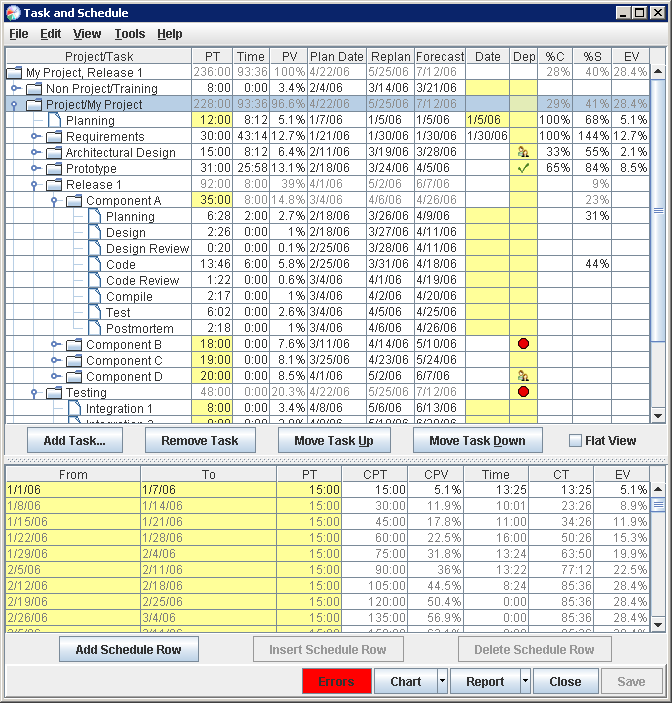
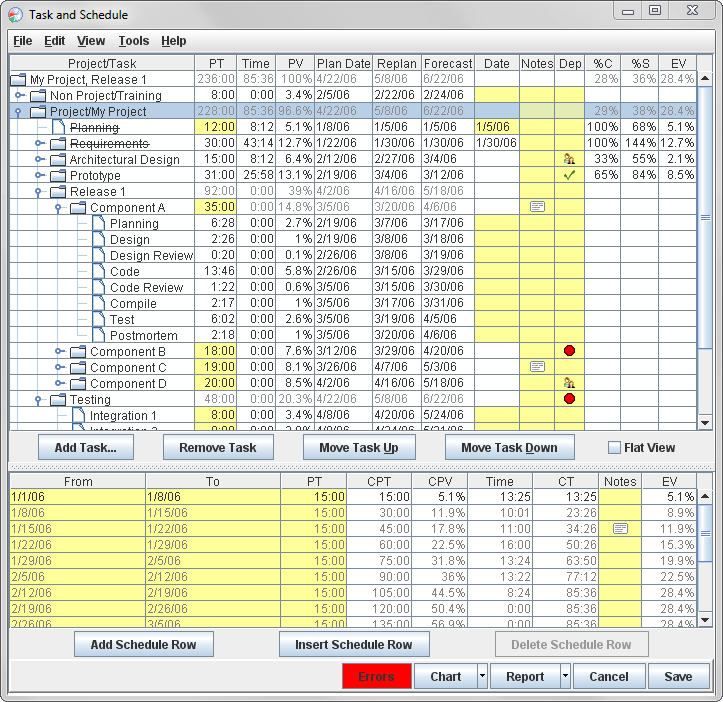
Help updates for Process Dashboard version 1.13
git-svn-id: https://svn.code.sf.net/p/processdash/code/trunk@3912 560cad82-bde2-470f-af40-e4e1f8d6548a

diff --git a/processdash/Templates/help/Topics/Overview/ChangeLog.html b/processdash/Templates/help/Topics/Overview/ChangeLog.html
@@ -7,6 +7,122 @@
 
 <H1>Change History</H1>
 
+<h2>Features new in version 1.13</h2>
+
+<ul>
+
+<li>Several enhancements have been made in the Work Breakdown Structure
+Editor:</li>
+
+    <ul>
+
+    <li>A strikethrough font is now used in the "Assigned To" column to
+    indicate which individuals have completed a multi-person task.</li>
+
+    <li>"Move Up" and "Move Down" buttons have been added to the
+    toolbar.</li>
+
+    <li>The Team Member List will now allow you to reorder individual team
+    members using drag-and-drop.</li>
+
+    <li>If you are starting a new project iteration, you can now use Ctrl-C
+    and Ctrl-V to copy and paste team members from the old team member list
+    to the new team member list.</li>
+
+    <li>In the past, when individual team members open the WBS from their
+    personal dashboard, the WBS Editor would sometimes unexpectedly open in
+    read-only mode.  This problem has been corrected.</li>
+
+    <li>In the past, the Team Dashboard's Team Project Parameters and
+    Settings page displayed a checkbox allowing the team leader to decide
+    whether team members could edit the WBS.  This checkbox has been moved
+    into the Work Breakdown Structure Editor itself, in the "Edit &gt;
+    Preferences" dialog.  As a result, if a team leader has locked down the
+    WBS (forbidding edits by team members), they will need to reaffirm this
+    choice in the "Edit &gt; Preferences" dialog of the WBS Editor after
+    upgrading to version 1.13</li>
+
+    <li>If you insert a workflow underneath a component that has a LOC size
+    estimate, the Code task in that workflow will automatically inherit
+    that size estimate.</li>
+
+    <li>The selection colors have been modified to produce better
+    readability on Mac OS X.</li>
+
+    </ul>
+
+<li>Several enhancements have been made in the WBS Common Team Workflows
+window:</li>
+
+    <ul>
+
+    <li>It is now possible to define a workflow that distributes time
+    across various phases using percentages, even if your team does not use
+    size estimates or historical productivity rates.</li>
+
+    <li>The keyboard accessibility of the Common Team Workflows editor has
+    been improved.  Keystrokes such as Tab, Enter, Delete, Ctrl-C, Ctrl-V,
+    and Ctrl-X will now assume intuitive, spreadsheet-like behaviors when
+    the focus is not in the first column.</li>
+
+    <li>The Task Size Units column now supports autocompletion.</li>
+
+    </ul>
+
+
+<li>Several enhancements have been made in the Task &amp; Schedule
+window:</li>
+
+    <ul>
+
+    <li>When an individual views one of their personal earned value task
+    lists in the Task &amp; Schedule window, they will see a "Notes"
+    column that allows them to view and edit the notes associated with
+    each component or task.</li>
+
+    <li>When an individual views one of their personal earned value task
+    lists in the Task &amp; Schedule window, the schedule pane (in the
+    lower portion of the window) now contains a "Notes" column.  This
+    column can be used to record the reason why a particular week has an
+    unusual number of planned or actual direct task hours.</li>
+
+    <li>A strikethrough font is now used to indicate tasks that are 100%
+    complete.</li>
+
+    <li>When you toggle from "Tree View" to "Flat View" and back, the
+    currently selected task will be preserved.</li>
+
+    </ul>
+
+<li>The Defect Log Editor now provides a feature to Import defects from the
+system clipboard.  This can be used to copy and paste defects from an
+external source, like an Excel spreadsheet or a web page.</li>
+
+<li>The "Tools &gt; Preferences" dialog now shows an "Always on Top"
+option.  (This feature will only appear if you are using Java 1.6 or
+higher.)</li>
+
+<li>If you pause the timer on the main dashboard toolbar, it will pause the
+"Fix Time" timer on the currently active defect dialog as well.  If you
+subsequently resume the main dashboard timer, it will resume the defect fix
+timer as well.</li>
+
+<li>The dashboard has always allowed you to set an "END" date for a
+personal earned value schedule.  (This feature is typically used to record
+the date when an individual will unequivocally leave a project team, due to
+an impending reassignment.)  When an individual with an END date is
+assigned too much work, their personal schedule may project that certain
+tasks will "never" be completed.  Although that information is useful at an
+individual level, it can result in a frustrating lack of insight at the
+team level.  Now, when one of these schedules is a part of a team schedule,
+the team rollup schedule will hypothetically rebalance these tasks to the
+rest of the team, calculate the date when the rest of the team might
+complete the tasks, and display that completion date in the team's "merged"
+view.  The "Assigned To" column for such a task will indicate that the task
+has been hypothetically rebalanced to the team.</li>
+
+</ul>
+
 <h2>Features new in version 1.12</h2>
 
 <ul>

diff --git a/processdash/Templates/help/Topics/Planning/UsingTaskSchedule.html b/processdash/Templates/help/Topics/Planning/UsingTaskSchedule.html
@@ -133,6 +133,11 @@ href="../Execution/CompletionButton.html">Completion
 Button</a>. Alternately, you can edit completion dates here (for example,
 if you need to back-date the completion of an item).</p>
 
+<p><b>Notes:</b> This column displays a note icon for any task that has
+an <a href="../Execution/NoteIndicator.html">associated note</a>. You can
+place your mouse over the icon to read the note.  To create a new note or
+edit an existing note, just click on a cell in this column.</p>
+
 <p><b>Dep:</b> This column displays information about 
 <a href="TaskScheduleDependencies.html">task dependencies</a>.
 If a task has no dependencies, nothing will be displayed.  If the task
@@ -272,6 +277,14 @@ spent on the tasks in the schedule during the given time period.</p>
 
 <p><b>Cumulative Actual Direct Time (CT):</b> This shows the actual amount of 
 direct time spent on task during the given time period cumulatively.</p>
+
+<p><b>Notes:</b> This column allows you to attach an annotation to a time
+period in your schedule.  These notes could be used, for example, to record
+the reason why a week has a different number of planned hours, or the reason
+why actual hours differed from expectations.  A note icon is displayed for any
+time period that has an annotation.  You can place your mouse over the icon to
+read the note.  To create a new note or edit an existing note, just click on a
+cell in this column.</p>
 
 <p><b>Actual Cumulative Earned Value (EV):</b> This shows the amount of earned 
 value actually earned during the given time period cumulatively.</p>

diff --git a/processdash/Templates/help/Topics/Execution/UsingDefectLogEditor.html b/processdash/Templates/help/Topics/Execution/UsingDefectLogEditor.html
@@ -26,10 +26,16 @@ this dialog.  For help using the defect entry dialog please see the <a
 href="EnteringDefects.html">Entering defects</A> help topic.</P>
 
 <P>In addition, it is possible to import defect data from external sources
-by clicking the "Import" button.  At the moment, one import source is
-built-in: a wizard for importing defects from Code Collaborator
-(<u class="url">http://smartbear.com/</u>).  Other sources may be added in
-the future.</p>
+by clicking the "Import" button.  At the moment, two import sources are
+built-in:</p>
+<ul>
+<li>A wizard for importing defects that have been copied onto the system
+    clipboard.  You can use this to copy and paste defect data from a web
+    page or a spreadsheet.</li>
+<li>A wizard for importing defects from Code Collaborator
+    (<u class="url">http://smartbear.com/</u>).</li>
+</ul>
+
 
 <h2>Configuring Defect Type Standards</h2>
 

diff --git a/processdash/Templates/help/Topics/AdvancedTopics/PreferencesTool.html b/processdash/Templates/help/Topics/AdvancedTopics/PreferencesTool.html
@@ -22,6 +22,10 @@ change the title that appears on the main Process Dashboard toolbar.  If you
 regularly work with more than one Process Dashboard dataset, changing the
 title of each window can make it easier to tell the datasets apart.</p>
 
+<p><a name="alwaysOnTop"></a><b>Always On Top</b>: If you are running Java 1.6
+or higher, this setting will appear, allowing you to request that the Process
+Dashboard toolbar remain on top of other windows.</p>
+
 <p><a name="systemTray"></a><b>System Tray</b>: If you are running Java 1.6
 or higher, the dashboard can display an icon in the
 <a href="../Execution/SystemTray.html">system tray</a>.  A checkbox

diff --git a/processdash/Templates/help/Topics/Execution/EnteringDefects.html b/processdash/Templates/help/Topics/Execution/EnteringDefects.html
@@ -89,6 +89,12 @@ topic.</P>
 timer.  If you stop fixing the given defect but are not finished with the 
 fix, you can press this button to stop the timer.</P>
 
+<P>The defect fix timer can be started and stopped independently of the main
+dashboard timer. However, if both timers are running and you pause the main
+dashboard timer, the defect fix timer will pause too.  After being paused in
+this way, if you restart the main dashboard timer, the defect timer will
+restart as well.</p>
+
 <P>In any case, you can stop the timer and enter a specific time in the fix 
 time display box.</P>
 

diff --git a/processdash/Templates/help/Topics/Planning/TaskScheduleSteps.html b/processdash/Templates/help/Topics/Planning/TaskScheduleSteps.html
@@ -73,7 +73,7 @@ completed.</p>
 <p class="figure"><img src="../../Images/TaskScheduleFlatView.png"></p>
 
 <p>After you switch into flat view, you can reorder the list of tasks.
-Place tasks in approximate in chronological order (the first task in
+Place tasks in approximate chronological order (the first task in
 the list should be the one you plan to work on first, and so on).
 There are several ways to reorder the tasks:</p>
 
